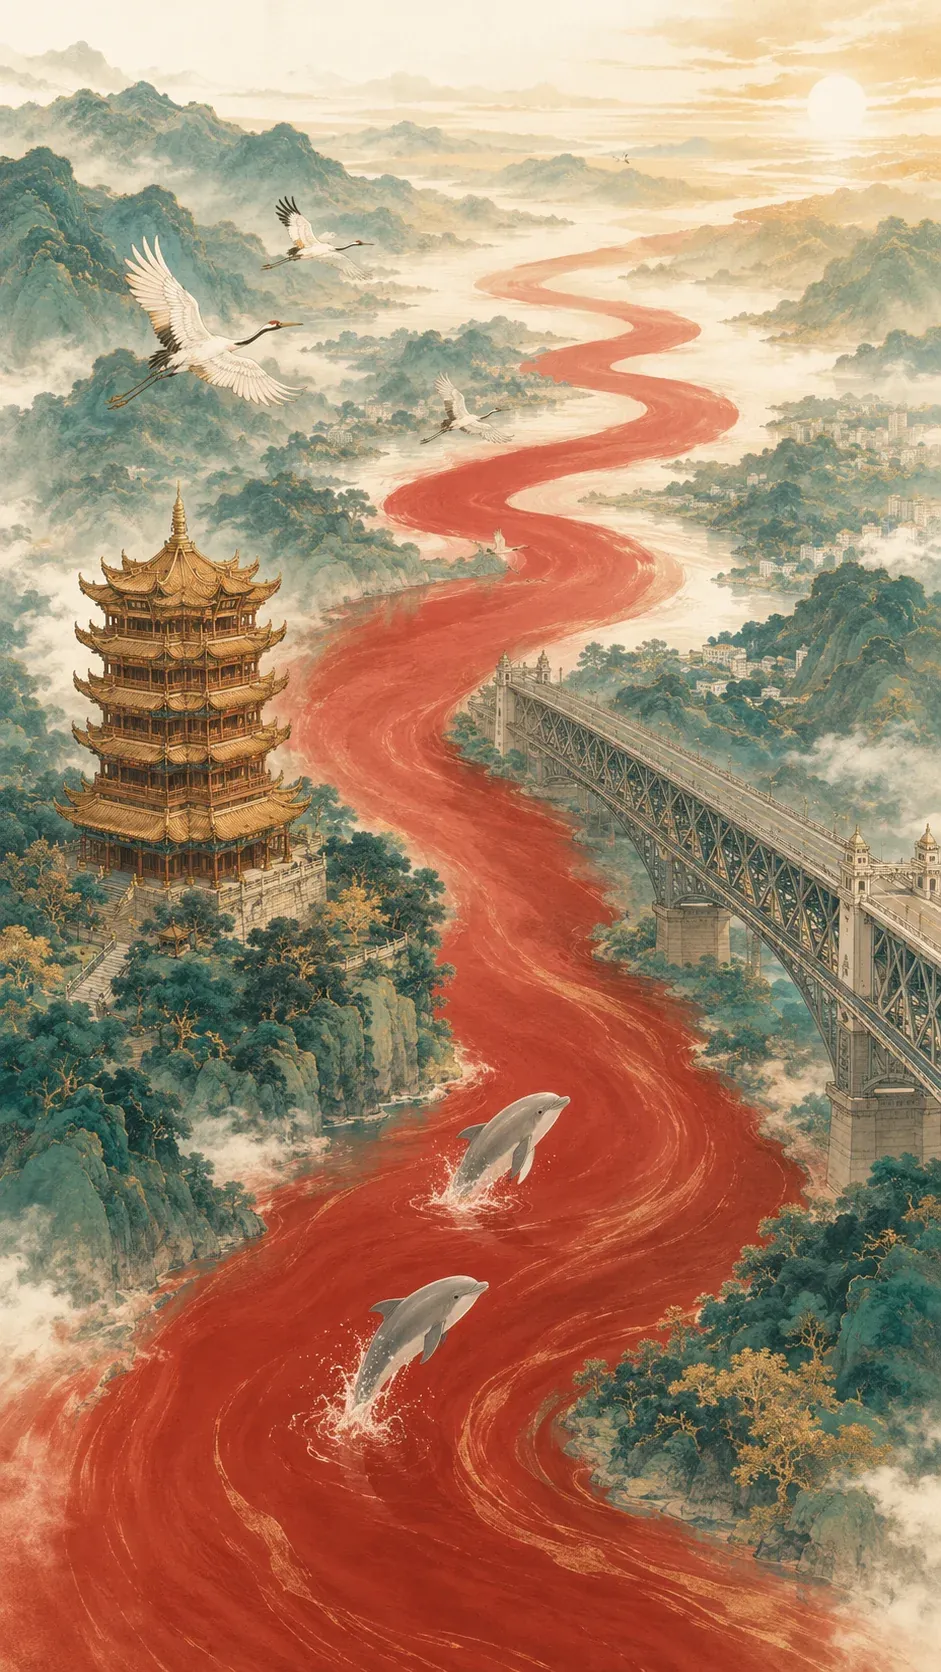
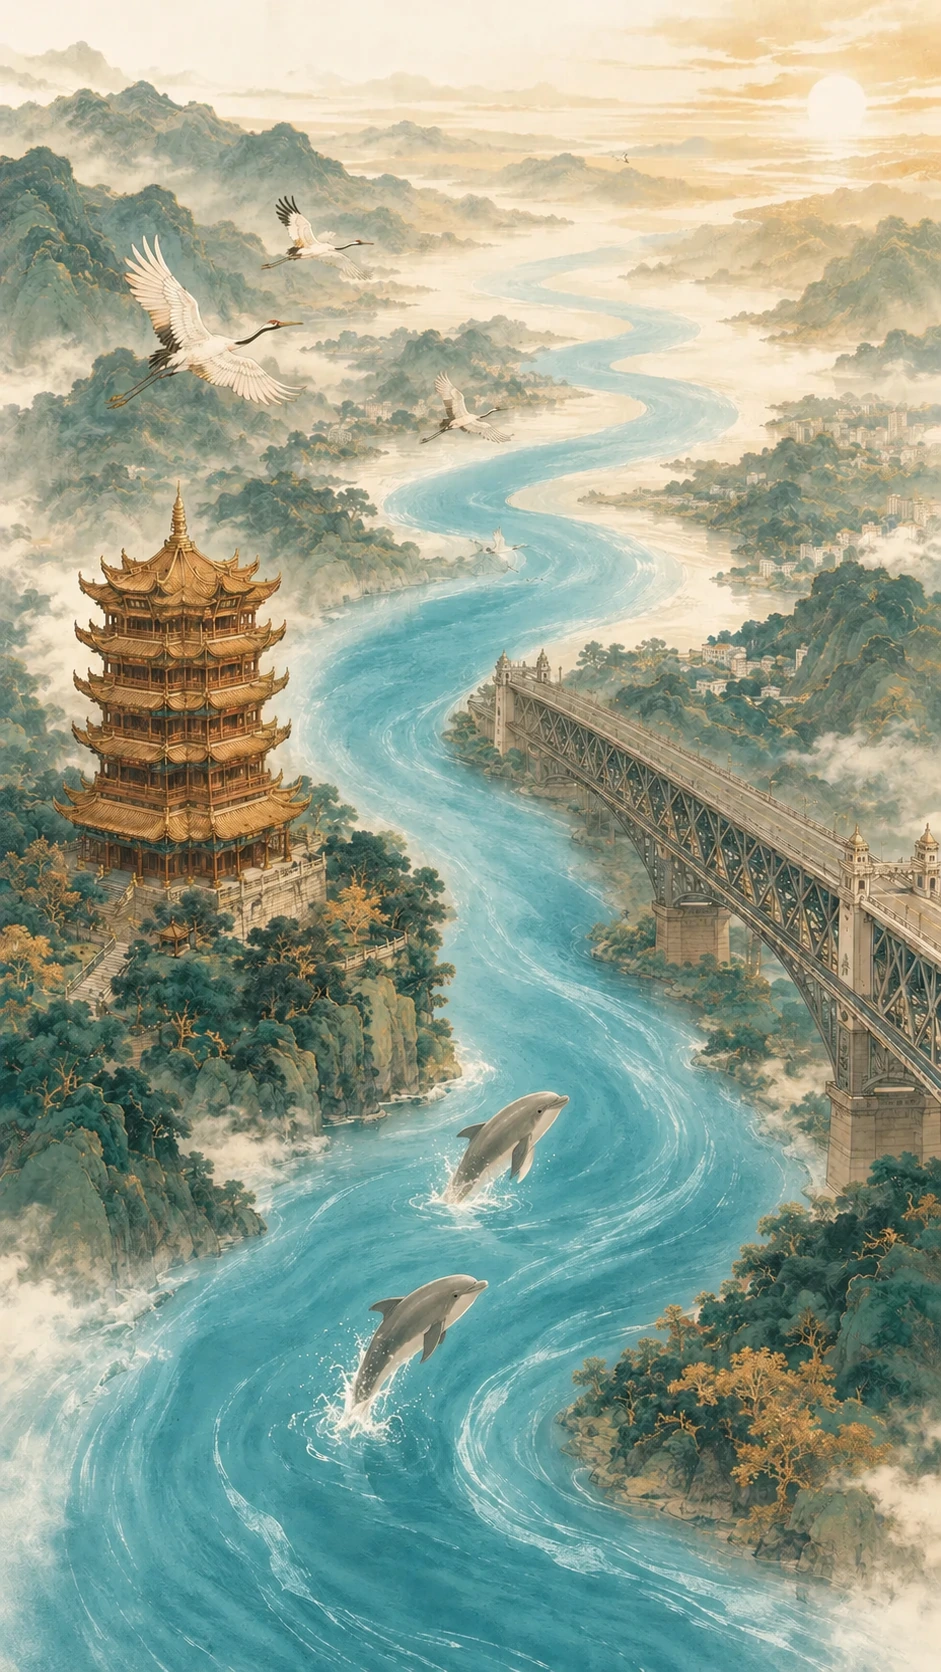
feat: 更新 P1/P2/P4/P7 背景图

diff --git a/index.html b/index.html
@@ -10,13 +10,13 @@
 <meta name="format-detection" content="telephone=no">
 <meta http-equiv="X-UA-Compatible" content="IE=edge,chrome=1">
 <title>长江的十年，我们的答卷</title>
-<link rel="preload" as="image" href="assets/p1.webp">
-<link rel="preload" as="image" href="assets/p2.webp">
+<link rel="preload" as="image" href="assets/p1.webp?v=2">
+<link rel="preload" as="image" href="assets/p2.webp?v=2">
 <link rel="preload" as="image" href="assets/p3.webp">
-<link rel="preload" as="image" href="assets/p4.webp">
+<link rel="preload" as="image" href="assets/p4.webp?v=2">
 <link rel="preload" as="image" href="assets/p5.webp">
 <link rel="preload" as="image" href="assets/p6.webp">
-<link rel="preload" as="image" href="assets/p7.webp">
+<link rel="preload" as="image" href="assets/p7.webp?v=2">
 <link rel="preload" as="audio" href="bgm.mp3" fetchpriority="high">
 <style>
 /* Loading overlay — blocks all interaction */
@@ -701,7 +701,7 @@ section.section-tall .section-inner{position:relative;min-height:auto;padding-bo
 
 <!-- ======== P1 · COVER ======== -->
 <section class="section" id="p1">
-  <div class="section-bg"><img src="assets/p1.webp" alt="" fetchpriority="high"></div>
+  <div class="section-bg"><img src="assets/p1.webp?v=2" alt="" fetchpriority="high"></div>
   <div class="section-inner cover">
     <div class="reveal"><div class="section-label">THE YANGTZE RIVER · A DECADE OF RENEWAL</div></div>
     <div class="reveal reveal-d1"><h1 class="main-title">长江的十年，我们的答卷</h1></div>
@@ -724,7 +724,7 @@ section.section-tall .section-inner{position:relative;min-height:auto;padding-bo
 
 <!-- ======== P2 · MAP MARKERS ======== -->
 <section class="section" id="p2">
-  <div class="section-bg"><img src="assets/p2.webp" alt="" fetchpriority="high"></div>
+  <div class="section-bg"><img src="assets/p2.webp?v=2" alt="" fetchpriority="high"></div>
 
   <!-- Intro overlay -->
   <div class="p2-intro reveal">
@@ -988,7 +988,7 @@ section.section-tall .section-inner{position:relative;min-height:auto;padding-bo
 
 <!-- ======== P4 · MAP MARKERS ======== -->
 <section class="section" id="p4">
-  <div class="section-bg"><img src="assets/p4.webp" alt="" loading="lazy" decoding="async"></div>
+  <div class="section-bg"><img src="assets/p4.webp?v=2" alt="" loading="lazy" decoding="async"></div>
 
   <div class="p2-intro reveal">
     <p class="lead">从化工围江到绿色新城，从砂石码头到候鸟天堂。四个地方，四种转身。</p>
@@ -1162,7 +1162,7 @@ section.section-tall .section-inner{position:relative;min-height:auto;padding-bo
 
 <!-- ======== P7 · ENDING ======== -->
 <section class="section section-tall" id="p7">
-  <div class="section-bg"><img src="assets/p7.webp" alt="" loading="lazy" decoding="async"></div>
+  <div class="section-bg"><img src="assets/p7.webp?v=2" alt="" loading="lazy" decoding="async"></div>
   <div class="section-inner ending" style="padding-top:20vw">
     <div class="reveal"><div class="section-label">FORWARD</div></div>
     <div class="reveal reveal-d1"><h2 class="ending-heading">从一个十年<br>走向下一个十年</h2></div>
@@ -1244,7 +1244,7 @@ function toggleBgm(){
 // === PRELOADER: wait for all assets, block interaction during loading ===
 (function(){
   document.body.classList.add('loading')
-  var assets = ['assets/p1.webp','assets/p2.webp','assets/p3.webp','assets/p4.webp','assets/p5.webp','assets/p6.webp','assets/p7.webp','bgm.mp3']
+  var assets = ['assets/p1.webp?v=2','assets/p2.webp?v=2','assets/p3.webp','assets/p4.webp?v=2','assets/p5.webp','assets/p6.webp','assets/p7.webp?v=2','bgm.mp3']
   var total = assets.length, loaded = 0
   var preloader = document.getElementById('preloader')
   var text = preloader.querySelector('.loader-text')
